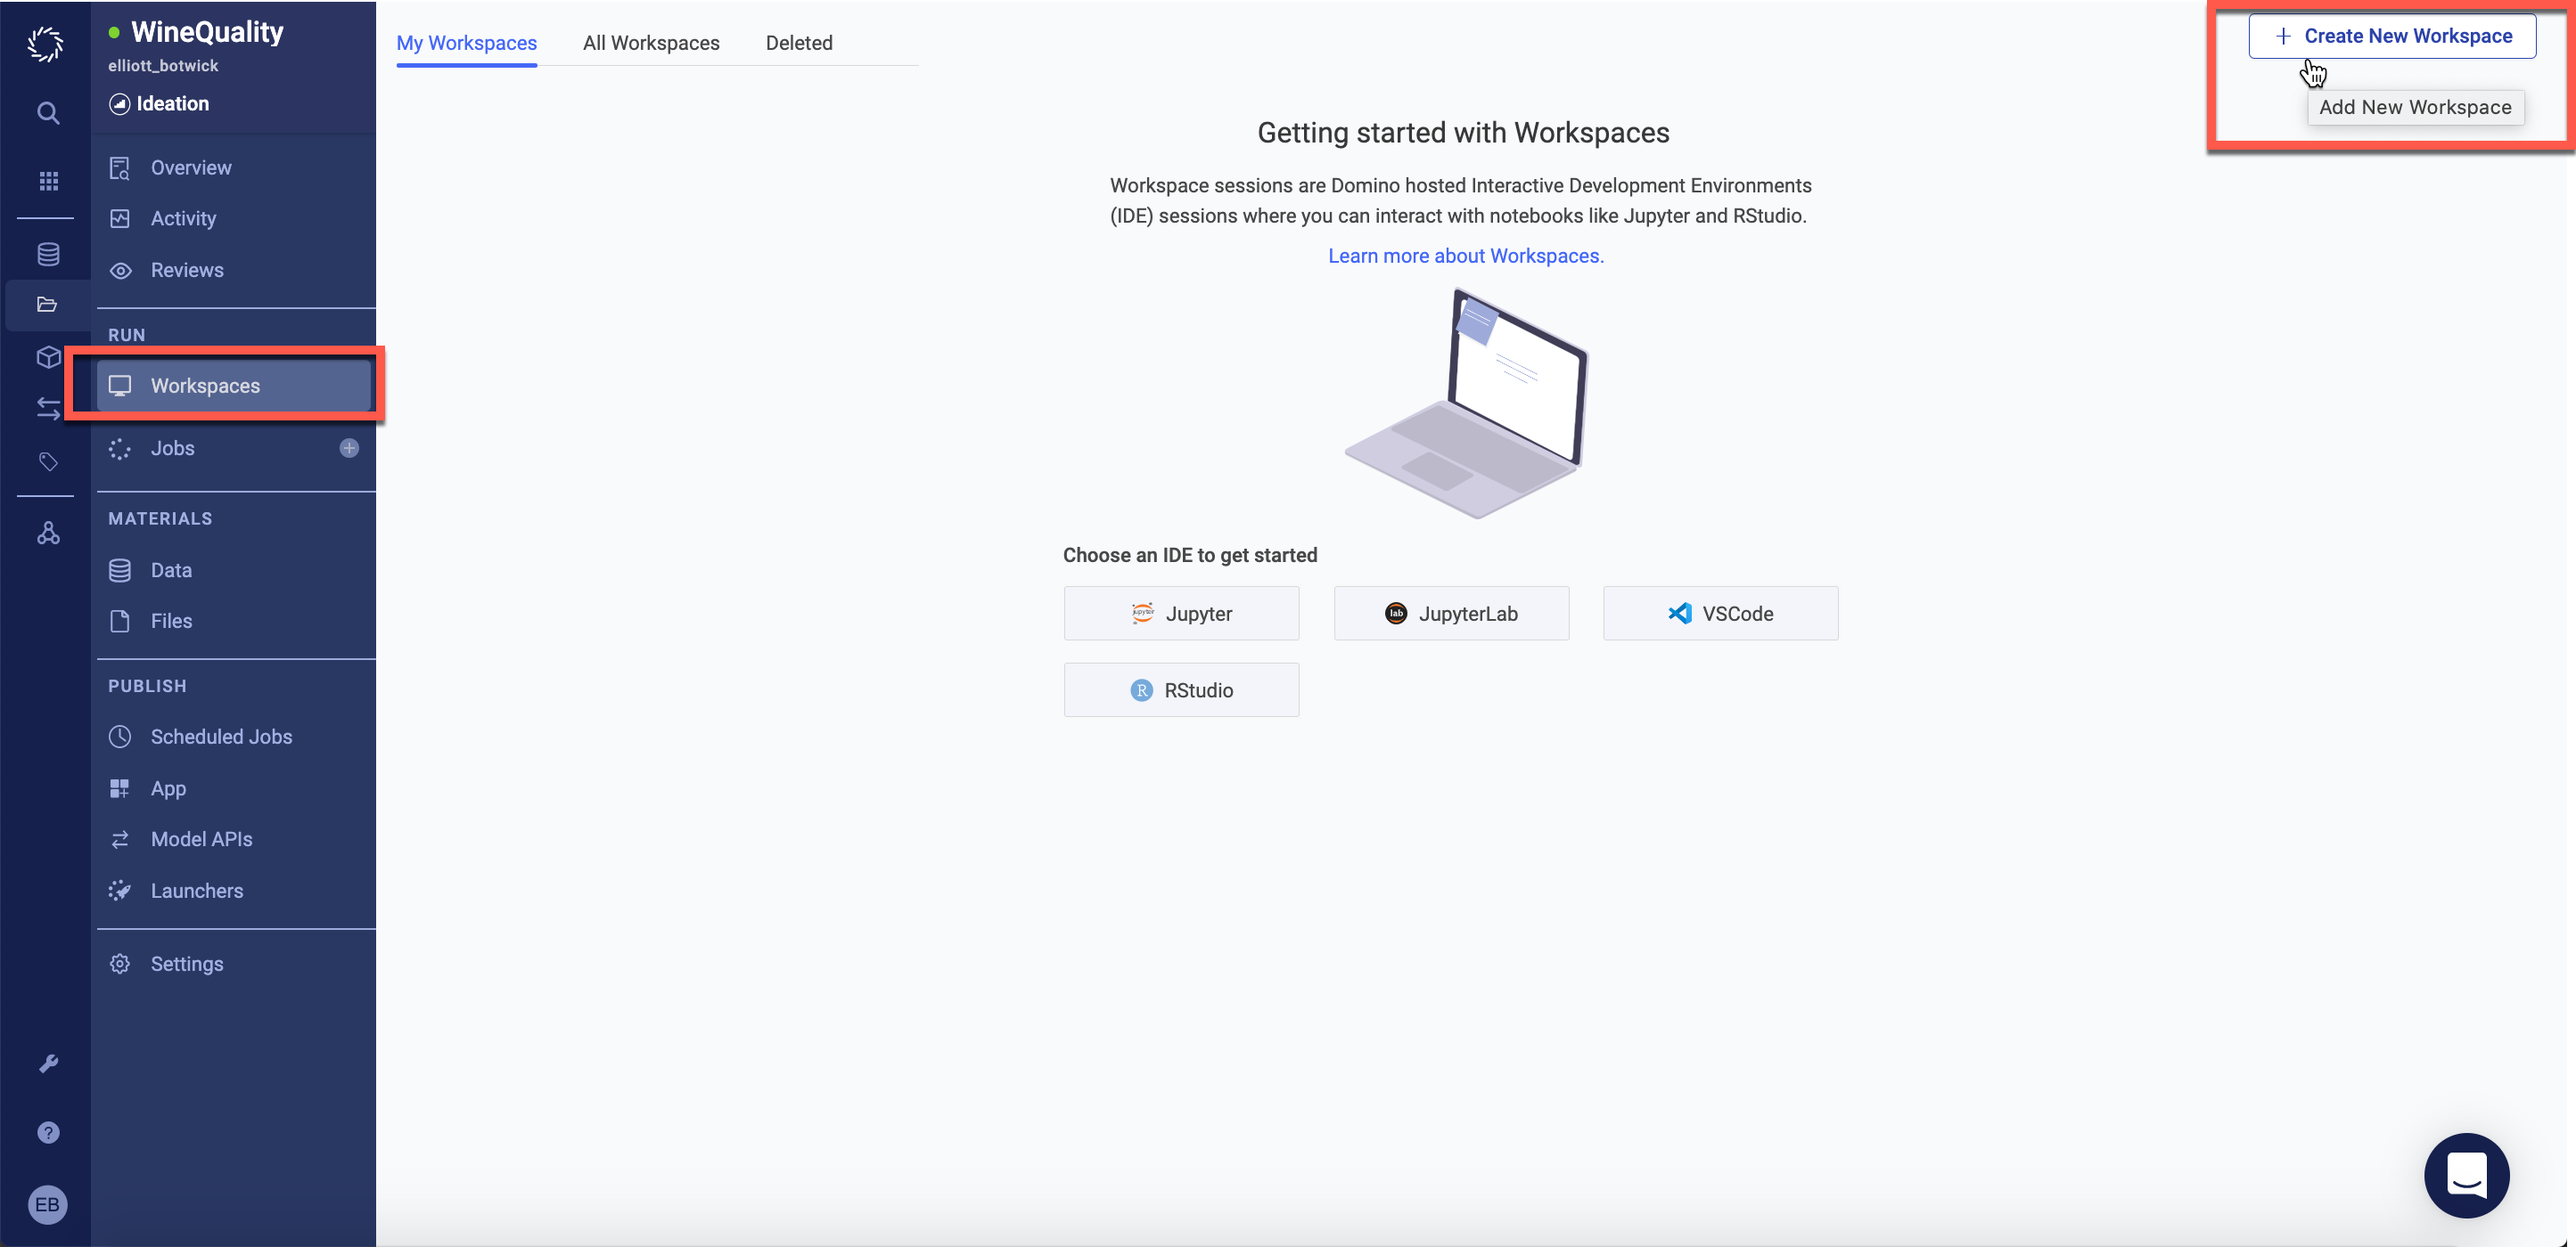
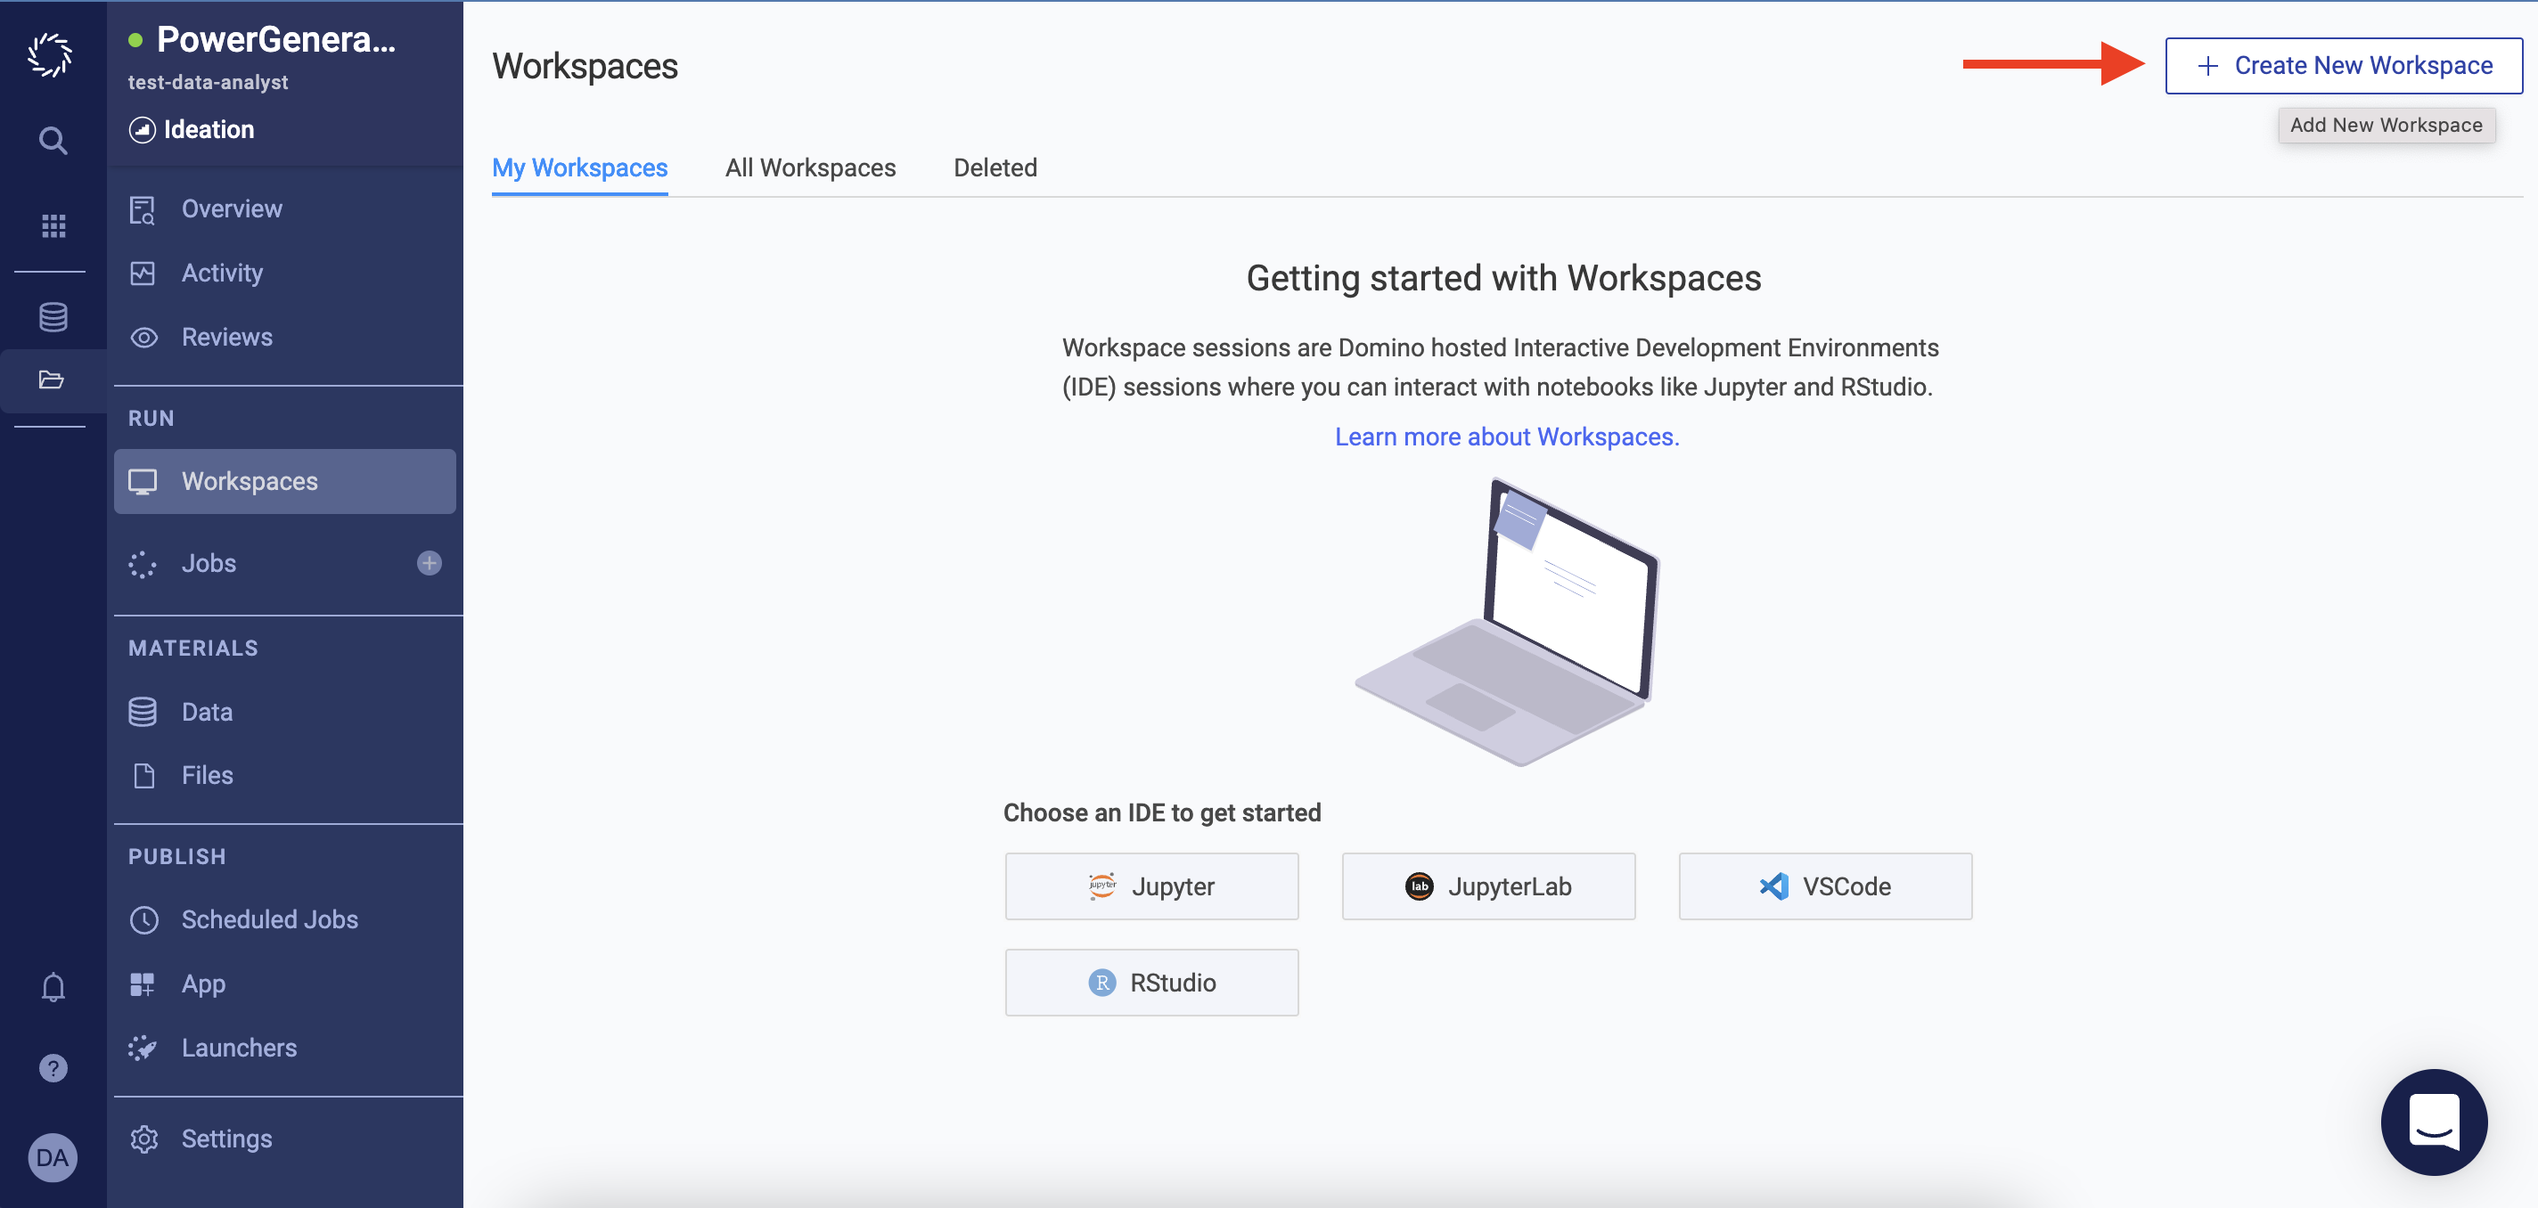
Pushed from Domino: https://demo2.dominodatalab.com/workspace/test-data-analyst/PowerGenerationWorkshop?executionId=6324c359de659c33feb8f3df

diff --git a/.ipynb_checkpoints/README-checkpoint.md b/.ipynb_checkpoints/README-checkpoint.md
@@ -133,46 +133,11 @@ The data source should look like the image below
 
 This concludes all labs in section 1 - Prepare Project and Data! 
 
-## Section 2 - Develop Model
+## Section 2 - Work With Historic Data
 
-### Lab 2.1 - Inspect Compute Environment
-From the left blue menu click on the cube icon page called 'Environments'.
+### Lab 2.1 - Exploring Workspaces
 
-<!-- ![image](readme_images/ShowEnv.png) -->
-
-<p align="center">
-<img src = readme_images/ShowEnv.png width="800">
-</p>
-
-Select 'Domino-Workshop-Environment' 
-
-<!-- ![image](readme_images/EnvironmentsPage.png) -->
-
-<p align="center">
-<img src = readme_images/EnvironmentsPage.png width="800">
-</p>
-
-Inspect the dockerfile to understand the packages installed, configurations specified, and kernels installed etc. 
-
-Scroll down to Pluggable Workspaces Tools - this is the area in the compute environment where IDEs are made available for end users
-
-Scroll down to the Run Setup Scripts section
-
-Here we have a script that executes upon startup of workspace sessions or job (pre-run script) and a script that executes upon termination of a workspace session or job (post-run script) 
-
-Finally navigate to the Projects tab - you should see all projects that are leveraging this compute environment. Click on your project to navigate back to your project. 
-
-<!-- ![image](readme_images/SaidEnvs.png) -->
-
-<p align="center">
-<img src = readme_images/SaidEnvs.png width="800">
-</p>
-
-Click into the Workspaces tab to prepare for the next lab.
-
-### Lab 2.2 - Exploring Workspaces
-
-In the top right corner click Create New Workspace
+In the top right corner click Create New Workspace.
 
 <p align="center">
 <img src = readme_images/AddWorkspace.png width="800">

diff --git a/README.md b/README.md
@@ -133,46 +133,11 @@ The data source should look like the image below
 
 This concludes all labs in section 1 - Prepare Project and Data! 
 
-## Section 2 - Develop Model
+## Section 2 - Work With Historic Data
 
-### Lab 2.1 - Inspect Compute Environment
-From the left blue menu click on the cube icon page called 'Environments'.
+### Lab 2.1 - Exploring Workspaces
 
-<!-- ![image](readme_images/ShowEnv.png) -->
-
-<p align="center">
-<img src = readme_images/ShowEnv.png width="800">
-</p>
-
-Select 'Domino-Workshop-Environment' 
-
-<!-- ![image](readme_images/EnvironmentsPage.png) -->
-
-<p align="center">
-<img src = readme_images/EnvironmentsPage.png width="800">
-</p>
-
-Inspect the dockerfile to understand the packages installed, configurations specified, and kernels installed etc. 
-
-Scroll down to Pluggable Workspaces Tools - this is the area in the compute environment where IDEs are made available for end users
-
-Scroll down to the Run Setup Scripts section
-
-Here we have a script that executes upon startup of workspace sessions or job (pre-run script) and a script that executes upon termination of a workspace session or job (post-run script) 
-
-Finally navigate to the Projects tab - you should see all projects that are leveraging this compute environment. Click on your project to navigate back to your project. 
-
-<!-- ![image](readme_images/SaidEnvs.png) -->
-
-<p align="center">
-<img src = readme_images/SaidEnvs.png width="800">
-</p>
-
-Click into the Workspaces tab to prepare for the next lab.
-
-### Lab 2.2 - Exploring Workspaces
-
-In the top right corner click Create New Workspace
+In the top right corner click Create New Workspace.
 
 <p align="center">
 <img src = readme_images/AddWorkspace.png width="800">
